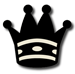
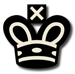
Added factory design pattern for when we are ready to implement the chess part. Implemented board printing function and move piece function.

diff --git a/src/course/rcc/cis18b/chess/GUI/SwingGuiManager.java b/src/course/rcc/cis18b/chess/GUI/SwingGuiManager.java
@@ -1,11 +1,206 @@
 package course.rcc.cis18b.chess.GUI;
 
-import javax.swing.*;
+import course.rcc.cis18b.chess.Entities.PieceType;
+import course.rcc.cis18b.chess.Entities.Board;
 
-public class SwingGuiManager extends JPanel implements GuiManager {
+import javax.swing.ImageIcon;
+import javax.swing.JFrame;
+import javax.swing.JPanel;
+import java.net.URL;
+import java.awt.Graphics;
+import java.awt.Image;
+import java.util.ArrayList;
+import java.util.List;
+
+public class SwingGuiManager extends JPanel implements GuiManager
+{
+    public static final int ROWS = 8;
+    public static final int COLUMNS = 8;
+    private int offset = 100;//Tile size
+    private int center = 15;//Value to center pieces inside the tile
+    private Image tile;
+    private Image backgroundImage;
+    private Image blackTile;
+    private Image whiteTile;
+    private Image pieceImage;
+    private Image[][] grid = new Image[ROWS][COLUMNS];
+    private int[][] xPositions = new int[ROWS][COLUMNS];
+    private int[][] yPositions = new int[ROWS][COLUMNS];
+    private int xPosition;
+    private int yPosition;
+    String colorPiece;
+
+
+    public SwingGuiManager()
+    {
+        createWindow();
+        createBoard();
+        colorPiece = "Black";
+        createPieces(colorPiece);
+        colorPiece = "White";
+        createPieces(colorPiece);
+        render();
+
+        Controller controller = new Controller(grid, xPositions, yPositions, this);
+        addMouseListener(controller);
+        addMouseMotionListener(controller);
+    }
+
+    private void createWindow()
+    {
+        JFrame frame = new JFrame();
+        frame.setTitle("Chess Game");
+        frame.setVisible(true);
+        frame.setDefaultCloseOperation(JFrame.EXIT_ON_CLOSE);
+        frame.add(this);
+        frame.setResizable(false);
+        frame.setSize(1280, 840);
+        frame.setLocationRelativeTo(null);
+    }
+
+    public void createBoard()
+    {
+        backgroundImage = getImage("WoodBackground.jpg");
+        blackTile = getImage("BlackTile.jpg");
+        whiteTile = getImage("WhiteTile.jpg");
+    }
+
+    private Image getImage(String filename)
+    {
+        String path = "../Images/";
+        Image image;
+
+        path += filename;
+        URL urlImage = getClass().getResource(path);
+        image = new ImageIcon(urlImage).getImage();
+
+        return image;
+    }
+
+    private Image createPiece(PieceType type, String color)
+    {
+        String filename;
+        filename = (color.equals("Black"))?"black":"white";
+
+        switch(type)
+        {
+            case ROOK:
+                filename += "rook";
+                break;
+            case KNIGHT:
+                filename += "knight";
+                break;
+            case BISHOP:
+                filename += "bishop";
+                break;
+            case QUEEN:
+                filename += "queen";
+                break;
+            case KING:
+                filename += "king";
+                break;
+            case PAWN:
+                filename += "pawn";
+                break;
+        }
+
+        filename += ".png";
+        return getImage(filename);
+    }
+
+    private void createPieces(String color)
+    {
+        if(color.equals("Black"))
+        {
+            pieceImage = createPiece(PieceType.ROOK, color);
+            grid[0][0] = pieceImage;
+            grid[0][7] = pieceImage;
+            pieceImage = createPiece(PieceType.KNIGHT, color);
+            grid[0][1] = pieceImage;
+            grid[0][6] = pieceImage;
+            pieceImage = createPiece(PieceType.BISHOP, color);
+            grid[0][2] = pieceImage;
+            grid[0][5] = pieceImage;
+            pieceImage = createPiece(PieceType.QUEEN, color);
+            grid[0][3] = pieceImage;
+            pieceImage = createPiece(PieceType.KING, color);
+            grid[0][4] = pieceImage;
+
+            pieceImage = createPiece(PieceType.PAWN, color);
+            for(int j = 0; j < 8; j++ )
+            {
+                grid[1][j] = pieceImage;
+            }
+        }
+
+        else
+        {
+            pieceImage = createPiece(PieceType.ROOK, color);
+            grid[7][0] = pieceImage;
+            grid[7][7] = pieceImage;
+            pieceImage = createPiece(PieceType.KNIGHT, color);
+            grid[7][1] = pieceImage;
+            grid[7][6] = pieceImage;
+            pieceImage = createPiece(PieceType.BISHOP, color);
+            grid[7][2] = pieceImage;
+            grid[7][5] = pieceImage;
+            pieceImage = createPiece(PieceType.QUEEN, color);
+            grid[7][3] = pieceImage;
+            pieceImage = createPiece(PieceType.KING, color);
+            grid[7][4] = pieceImage;
+
+            pieceImage = createPiece(PieceType.PAWN, color);
+            for (int j = 0; j < 8; j++) {
+                grid[6][j] = pieceImage;
+            }
+        }
+    }
 
     @Override
-    public void render() {
+    protected void paintComponent(Graphics graphics)
+    {
+        //Draws background image
+        graphics.drawImage(backgroundImage, 0, 0, null);
 
+
+
+        //Draws the tiles
+        for (int i = 0; i < ROWS; i++)
+        {
+            for (int j = 0; j < COLUMNS; j++)
+            {
+                xPositions[i][j] = offset * i;
+                yPositions[i][j] = offset * j;
+
+                System.out.println("XPosition: " + xPositions[i][j]);
+                System.out.println("YPosition: " + yPositions[i][j]);
+
+                tile = ((i % 2) == (j % 2)) ? blackTile : whiteTile;
+                graphics.drawImage(tile, xPositions[i][j], yPositions[i][j], null);
+            }
+        }
+
+        //Draws the pieces
+        for (int i = 0; i < ROWS; i++)
+        {
+            for (int j = 0; j < COLUMNS; j++)
+            {
+                graphics.drawImage(grid[j][i], xPositions[i][j] + center, yPositions[i][j] + center, null);
+            }
+        }
+    }
+
+    public void render()
+    {
+        System.out.println("You called me bro?");
+        repaint();
     }
 }
+
+
+
+
+
+
+
+

diff --git a/src/course/rcc/cis18b/chess/GUI/Controller.java b/src/course/rcc/cis18b/chess/GUI/Controller.java
@@ -1,0 +1,125 @@
+package course.rcc.cis18b.chess.GUI;
+
+import java.awt.*;
+import java.awt.event.*;
+
+public class Controller implements MouseListener, MouseMotionListener, KeyListener
+{
+    public static final int ROWS = 8;
+    public static final int COLUMNS = 8;
+    private Image[][] grid = new Image[ROWS][COLUMNS];
+    private int[][] xPositions = new int[ROWS][COLUMNS];
+    private int[][] yPositions = new int[ROWS][COLUMNS];
+    private SwingGuiManager swingGuiManager;
+    private Image dragPiece;
+    private boolean isBreak;
+
+    public Controller(Image[][] grid, int[][] xPositions, int[][] yPositions, SwingGuiManager swingGuiManager)
+    {
+        this.grid = grid;
+        this.xPositions = xPositions;
+        this.yPositions = yPositions;
+        this.swingGuiManager = swingGuiManager;
+    }
+
+    @Override
+    public void keyTyped(KeyEvent e) {
+
+    }
+
+    @Override
+    public void keyPressed(KeyEvent e) {
+
+    }
+
+    @Override
+    public void keyReleased(KeyEvent e) {
+
+    }
+
+    @Override
+    public void mouseClicked(MouseEvent e) {
+
+    }
+
+    @Override
+    public void mousePressed(MouseEvent event)
+    {
+        int mouseXPosition = event.getPoint().x;
+        int mouseYPosition = event.getPoint().y;
+
+        for(int i = 0; i < grid.length; i++)
+        {
+            for(int j = 0; j < grid.length; j++)
+            {
+                Image piece = grid[i][j];
+
+                if(selectedPiece(piece, mouseXPosition, mouseYPosition))
+                {
+                    dragPiece = piece;
+                    isBreak = true;
+                    break;
+                }
+            }
+            if(isBreak == true)
+                break;
+        }
+
+
+        System.out.println("X: " + mouseXPosition);
+        System.out.println("Y: " + mouseYPosition);
+    }
+
+    @Override
+    public void mouseReleased(MouseEvent event)
+    {
+        dragPiece = null;
+    }
+
+    @Override
+    public void mouseEntered(MouseEvent e) {
+
+    }
+
+    @Override
+    public void mouseExited(MouseEvent e) {
+
+    }
+
+    @Override
+    public void mouseDragged(MouseEvent event)
+    {
+        if(dragPiece != null)
+        {
+            //dragPiece.setX(evt.getPoint().x - this.dragOffsetX);
+            //dragPiece.setY(evt.getPoint().y - this.dragOffsetY);
+            //SwingGuiManager.render();
+        }
+    }
+
+    @Override
+    public void mouseMoved(MouseEvent e) {
+
+    }
+
+    private boolean selectedPiece(Image selectedPiece, int mouseXPosition, int mouseYPosition)
+    {
+        for(int i = 0; i < grid.length; i++)
+        {
+            for(int j = 0; j < grid.length; j++)
+            {
+                if(xPositions[i][j] <= mouseXPosition
+                        && xPositions[i][j] + selectedPiece.getWidth(null) >= mouseXPosition
+                        && yPositions[i][j] <= mouseXPosition
+                        && yPositions[i][j] + selectedPiece.getHeight(null) >= mouseYPosition)
+                {
+                    isBreak = true;
+                    break;
+                }
+            }
+            if(isBreak == true)
+                break;
+        }
+        return true;
+    }
+}

diff --git a/src/course/rcc/cis18b/chess/Application.java b/src/course/rcc/cis18b/chess/Application.java
@@ -24,7 +24,8 @@ public class Application {
     private void onCreate()
     {
         // Create and instantiate all the necessary objects to start.
-        Board.setGuiManager(new ConsoleUIManager());
+        //Board.setGuiManager(new ConsoleUIManager());
+        Board.setGuiManager(new SwingGuiManager());
 
         this.currentPlayer = TurnManager.getInstance().currentPlayer();
 

diff --git a/src/course/rcc/cis18b/chess/GUI/GuiManager.java b/src/course/rcc/cis18b/chess/GUI/GuiManager.java
@@ -2,4 +2,6 @@ package course.rcc.cis18b.chess.GUI;
 
 public interface GuiManager {
     public void render();
+    //public void createWindow();
+    //public void createBoard();
 }
